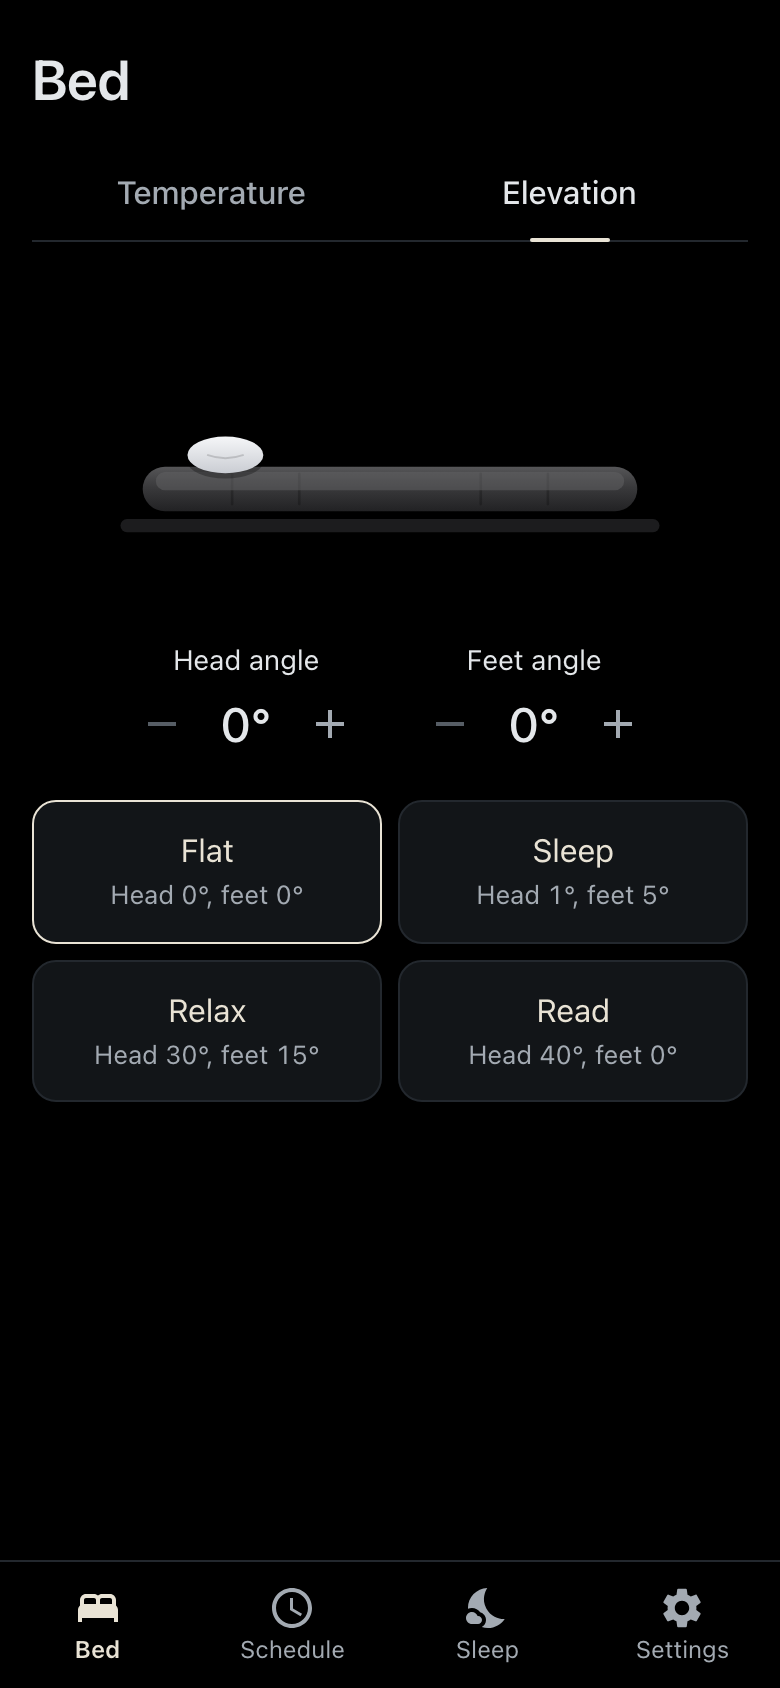
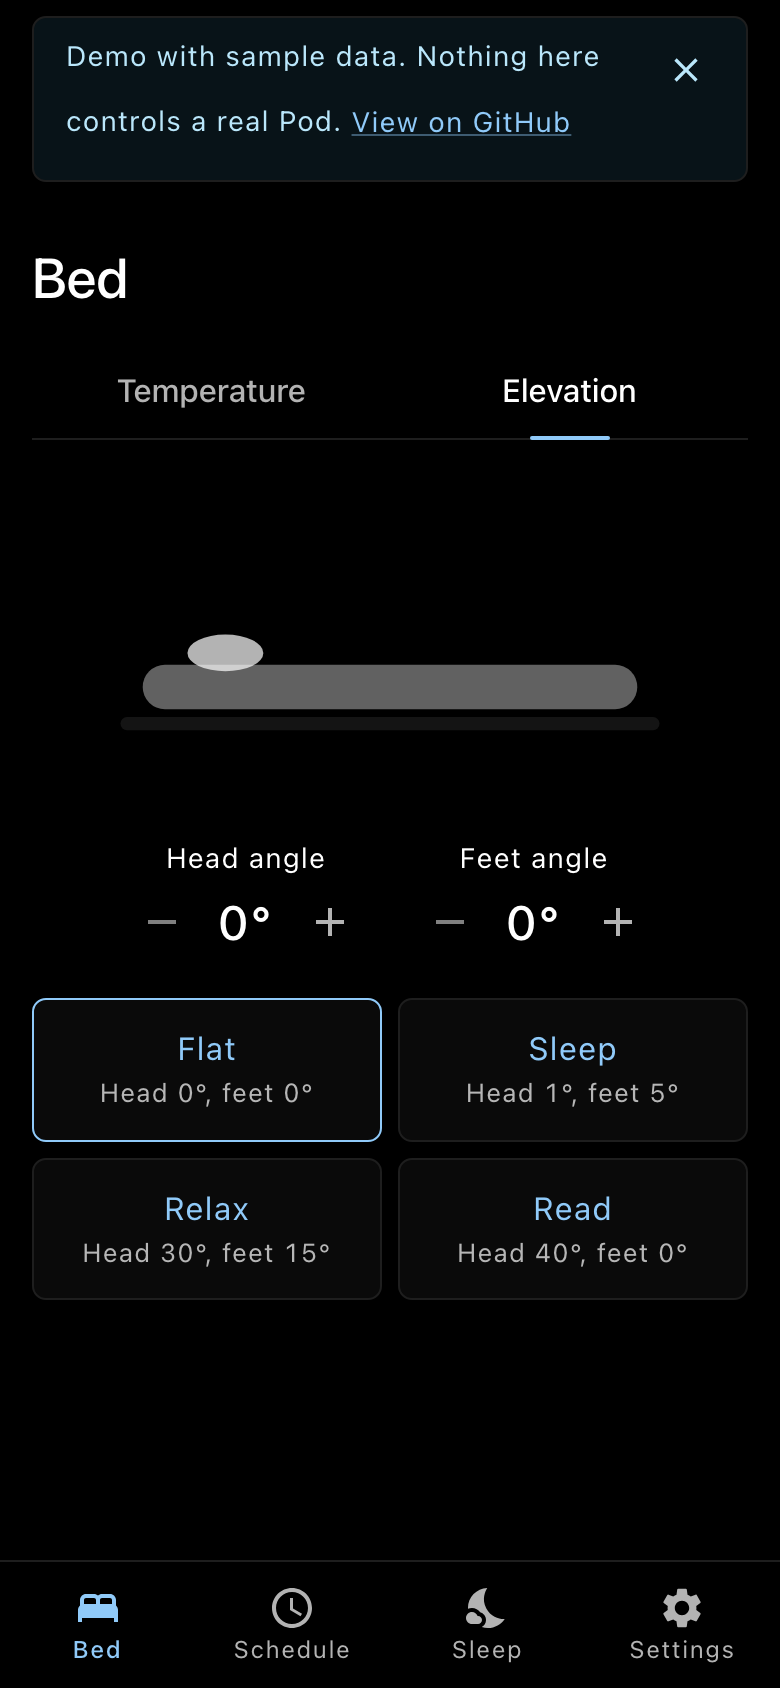
ui(theme): make the 3.3.2 look the default
Everyone sees the Nightstand look on update: the look of 3.3.2, with
AA contrast, one corner, flat cards and a neutral level 0. The tests
that pinned the warm white look's colours, corners and weights (500
headings and numeral instead of 600 and 300) are pinned again to the
new default's values, so a later change to either look still fails
loudly.

The Bed caption slot no longer takes the body tracking: at 0.05em a
stale caption with a two digit hour took three lines in the two line
slot on a 320 px phone. The Nightstand Bed baselines are rendered
again for that change; no other baseline moved.

The README figures are rendered again in the new look, and the
CHANGELOG names the four looks and the projects behind them.

diff --git a/app/src/pages/ControlTempPage/PowerRow.test.tsx b/app/src/pages/ControlTempPage/PowerRow.test.tsx
@@ -28,12 +28,12 @@ it('points to where away mode is changed instead of leaving a blank gap', async 
 it('draws Turn on and Turn off as matching full width dark pills', async () => {
   const { unmount } = renderWithProviders(<PowerRow isOn={ false } refetch={ refetch }/>);
   const turnOn = await screen.findByRole('button', { name: 'Turn on' });
-  expect(turnOn).toHaveStyle({ backgroundColor: '#1C1915', color: '#E9E3D5', width: '100%', minHeight: '54px' });
-  expect(turnOn).toHaveStyle({ boxShadow: 'inset 0 0 0 1.5px rgba(233,227,213,0.7)' });
+  expect(turnOn).toHaveStyle({ backgroundColor: '#000000', color: '#90CAF9', width: '100%', minHeight: '54px' });
+  expect(turnOn).toHaveStyle({ boxShadow: 'inset 0 0 0 1.5px rgba(144,202,249,0.7)' });
   unmount();
   renderWithProviders(<PowerRow isOn refetch={ refetch }/>);
   const turnOff = await screen.findByRole('button', { name: 'Turn off' });
-  expect(turnOff).toHaveStyle({ backgroundColor: '#2A251F', width: '100%', minHeight: '54px' });
+  expect(turnOff).toHaveStyle({ backgroundColor: '#000000', width: '100%', minHeight: '54px' });
 });
 
 it('holds the button in a row of fixed height', async () => {
@@ -54,7 +54,7 @@ it('puts Try again in the calm pill while the Pod does not answer', async () => 
   const retry = vi.fn();
   const { user } = renderWithProviders(<PowerRow isOn refetch={ refetch } onRetry={ retry }/>);
   const button = await screen.findByRole('button', { name: 'Try again' });
-  expect(button).toHaveStyle({ backgroundColor: '#1C1915', color: '#E9E3D5', width: '100%' });
+  expect(button).toHaveStyle({ backgroundColor: '#000000', color: '#90CAF9', width: '100%' });
   expect(screen.queryByRole('button', { name: 'Turn off' })).not.toBeInTheDocument();
   await user.click(button);
   expect(retry).toHaveBeenCalledOnce();

diff --git a/app/src/pages/ControlTempPage/UpcomingNight.test.tsx b/app/src/pages/ControlTempPage/UpcomingNight.test.tsx
@@ -50,15 +50,15 @@ it('uses the shared section hierarchy for upcoming events', () => {
   fixture.on = '21:00';
   render(<ThemeProvider theme={ theme }><MemoryRouter><UpcomingNight/></MemoryRouter></ThemeProvider>);
   expect(screen.getByRole('heading', { level: 2, name: 'Upcoming' }))
-    .toHaveStyle({ fontSize: '1.125rem', fontWeight: 600 });
+    .toHaveStyle({ fontSize: '1.125rem', fontWeight: 500 });
 });
 
-it('draws the card at the shared 16 px radius with its actions as 44 px lamp links', () => {
+it('draws the card at the shared 7 px radius with its actions as 44 px lamp links', () => {
   vi.spyOn(moment, 'now').mockReturnValue(Date.parse('2026-09-28T20:00:00Z'));
   fixture.on = '21:00';
   fixture.expiresAt = '2026-09-28T19:00:00Z';
   const { container } = render(<ThemeProvider theme={ theme }><MemoryRouter><UpcomingNight/></MemoryRouter></ThemeProvider>);
-  expect(container.querySelector('[data-tonight]')).toHaveStyle({ borderRadius: '12px' });
+  expect(container.querySelector('[data-tonight]')).toHaveStyle({ borderRadius: '7px' });
   expect(screen.getByRole('link', { name: 'Edit schedule' })).toHaveStyle({ minHeight: '44px', fontSize: '15px' });
   expect(screen.getByText('Turns on tonight at 9:00 PM, set to 82°F')).toHaveStyle({ fontSize: '15px' });
 });

diff --git a/app/src/pages/ControlTempPage/TemperatureDial.test.tsx b/app/src/pages/ControlTempPage/TemperatureDial.test.tsx
@@ -103,9 +103,9 @@ it('puts the caption in its own slot between the dial and the controls row', () 
   expect(slot.nextElementSibling).toHaveAttribute('data-controls-row');
 });
 
-it('sets a level in the large light numeral', () => {
+it('sets a level in the large numeral', () => {
   render(<TemperatureDial status={ on } refetch={ vi.fn() } format="level"/>);
-  expect(screen.getByRole('heading', { level: 2 })).toHaveStyle({ fontSize: '100px', fontWeight: '300' });
+  expect(screen.getByRole('heading', { level: 2 })).toHaveStyle({ fontSize: '100px', fontWeight: '500' });
   expect(screen.getByText('Warming to')).toHaveStyle({ fontSize: '15px' });
 });
 
@@ -116,9 +116,9 @@ it('writes °F at the smaller numeral size', () => {
   expect(numeral).toHaveStyle({ fontSize: '64px' });
 });
 
-it('says Off in the large light face while off', () => {
+it('says Off in the large numeral face while off', () => {
   render(<TemperatureDial status={ { ...on, isOn: false } } refetch={ vi.fn() } format="level"/>);
-  expect(screen.getByText('Off')).toHaveStyle({ fontSize: '84px', fontWeight: '300' });
+  expect(screen.getByText('Off')).toHaveStyle({ fontSize: '84px', fontWeight: '500' });
 });
 
 it('says "Set to" and draws a hollow dot while an edit waits for the Pod', () => {

diff --git a/app/src/components/SideControl.test.tsx b/app/src/components/SideControl.test.tsx
@@ -136,8 +136,8 @@ it('names the level of a paused side that is on, on the Bed tiles and the compac
 it('draws the selected Bed tile warm, from the top, with room for three lines', () => {
   render(<SideControl compact={ false }/>);
   const selected = screen.getByRole('radio', { name: /^Alex/ }).closest('label')!;
-  expect(selected).toHaveStyle({ backgroundColor: '#2A251F', minHeight: '84px', borderRadius: '12px', justifyContent: 'flex-start' });
-  expect(screen.getByRole('radio', { name: /^Sam/ }).closest('label')).toHaveStyle({ backgroundColor: '#121518' });
+  expect(selected).toHaveStyle({ backgroundColor: '#172028', minHeight: '84px', borderRadius: '7px', justifyContent: 'flex-start' });
+  expect(screen.getByRole('radio', { name: /^Sam/ }).closest('label')).toHaveStyle({ backgroundColor: '#0A0A0A' });
 });
 
 it('names only the side while the bed status loads', () => {

diff --git a/app/e2e/bed-trust.spec.ts b/app/e2e/bed-trust.spec.ts
@@ -34,13 +34,13 @@ test('a change still unconfirmed after two seconds is drawn in the last known gr
   const numeral = page.locator('[data-dial] h2');
   await expect(dot).toHaveCount(1);
   const colour = await dot.getAttribute('stroke');
-  expect(colour).not.toBe('#848C95');
+  expect(colour).not.toBe('#9E9E9E');
 
   await page.clock.fastForward(1000);
   await expect(dot).toHaveAttribute('stroke', colour!);
   await page.clock.fastForward(1100);
-  await expect(dot).toHaveAttribute('stroke', '#848C95');
-  await expect(numeral).toHaveCSS('color', 'rgb(163, 170, 178)');
+  await expect(dot).toHaveAttribute('stroke', '#9E9E9E');
+  await expect(numeral).toHaveCSS('color', 'rgba(255, 255, 255, 0.7)');
   await expect(lead(page)).toHaveText('Set to');
 });
 

diff --git a/app/src/pages/SettingsPage/UsageBar.test.tsx b/app/src/pages/SettingsPage/UsageBar.test.tsx
@@ -6,7 +6,7 @@ import UsageBar from './UsageBar';
 it('draws a track that differs from the card it sits on', () => {
   render(<UsageBar label="Storage" usedBytes={ 1.6e9 } totalBytes={ 15e9 } usedPercent={ 11 }/>);
   const track = getComputedStyle(screen.getByRole('progressbar')).backgroundColor;
-  expect(track).toBe('rgb(35, 40, 46)');
-  expect(track).not.toBe('rgb(18, 21, 24)');
-  expect(palette.border.subtle.toLowerCase()).toBe('#23282e');
+  expect(track).toBe('rgb(30, 30, 30)');
+  expect(track).not.toBe('rgb(10, 10, 10)');
+  expect(palette.border.subtle.toLowerCase()).toBe('#1e1e1e');
 });

diff --git a/app/src/pages/ControlTempPage/CaptionSlot.tsx b/app/src/pages/ControlTempPage/CaptionSlot.tsx
@@ -8,7 +8,7 @@ import { useBedCaption } from './useBedCaption';
 // and nothing under it moves. Under 360 px the type steps down so the not responding lines still take two.
 export const captionSlotSx = {
   width: '100%', height: 42, mt: '2px', fontSize: 15, lineHeight: 1.4, color: 'text.secondary', textAlign: 'center',
-  textWrap: 'balance', [media.narrow]: { fontSize: 14 },
+  letterSpacing: 'normal', textWrap: 'balance', [media.narrow]: { fontSize: 14 },
 } as const;
 
 const line = (text: string) => <Box component="span" key={ text } sx={ { display: 'block' } }>{ text }</Box>;

diff --git a/app/src/pages/DataPage/SleepPage/MissingNightCard.test.tsx b/app/src/pages/DataPage/SleepPage/MissingNightCard.test.tsx
@@ -6,7 +6,7 @@ import MissingNightCard from './MissingNightCard';
 it('gives a missing-night section the same heading hierarchy as a recorded night', () => {
   renderWithProviders(<MissingNightCard state="empty" canAnalyze={ false } onAnalyze={ () => {} }/>);
   expect(screen.getByRole('heading', { level: 2, name: 'Nothing recorded' }))
-    .toHaveStyle({ fontSize: '1.125rem', fontWeight: 600 });
+    .toHaveStyle({ fontSize: '1.125rem', fontWeight: 500 });
 });
 
 it('describes the analysis timing of the running schedule for a pending night', () => {

diff --git a/app/src/pages/SchedulePage/SchedulePage.headings.test.tsx b/app/src/pages/SchedulePage/SchedulePage.headings.test.tsx
@@ -21,7 +21,7 @@ it('gives the night and timeline sections consistent level-two headings', async 
   await screen.findByRole('heading', { name: 'Bedtime' });
   for (const name of [/^[A-Z][a-z]+ night/, 'Bedtime', 'Through the night', 'Wake up']) {
     const heading = screen.getByRole('heading', { level: 2, name });
-    expect(heading).toHaveStyle({ fontSize: '1.125rem', fontWeight: 600 });
+    expect(heading).toHaveStyle({ fontSize: '1.125rem', fontWeight: 500 });
   }
 });
 

diff --git a/app/src/design/themes/ids.ts b/app/src/design/themes/ids.ts
@@ -2,7 +2,7 @@ export type ThemeId = 'nightstand' | 'lamp' | 'classic' | 'glass';
 
 // Stored on devices: never rename an id. The order is the picker's.
 export const THEME_IDS: readonly ThemeId[] = ['nightstand', 'lamp', 'classic', 'glass'];
-export const DEFAULT_THEME_ID: ThemeId = 'lamp';
+export const DEFAULT_THEME_ID: ThemeId = 'nightstand';
 // Namespaced because the hosted demo shares its origin with other pages.
 export const THEME_STORAGE_KEY = 'nightstand-theme';
 

diff --git a/app/src/AppRoutes.test.tsx b/app/src/AppRoutes.test.tsx
@@ -95,6 +95,6 @@ it.each([
 it('gives an unknown route the shared full-size page title', async () => {
   renderApp('/missing-page');
   const heading = await screen.findByRole('heading', { level: 1, name: 'Page not found' });
-  expect(heading).toHaveStyle({ fontSize: '1.75rem', fontWeight: 600 });
+  expect(heading).toHaveStyle({ fontSize: '1.75rem', fontWeight: 500 });
   expect(screen.getByRole('link', { name: 'Go to Bed' })).toHaveAttribute('href', '/');
 });

diff --git a/app/src/pages/SettingsPage/Section.test.tsx b/app/src/pages/SettingsPage/Section.test.tsx
@@ -6,5 +6,5 @@ import Section from './Section';
 it('gives section titles a level-two heading larger than body text', () => {
   renderWithProviders(<Section title="Priming">Body</Section>);
   const heading = screen.getByRole('heading', { level: 2, name: 'Priming' });
-  expect(heading).toHaveStyle({ fontSize: '1.125rem', fontWeight: 600 });
+  expect(heading).toHaveStyle({ fontSize: '1.125rem', fontWeight: 500 });
 });
